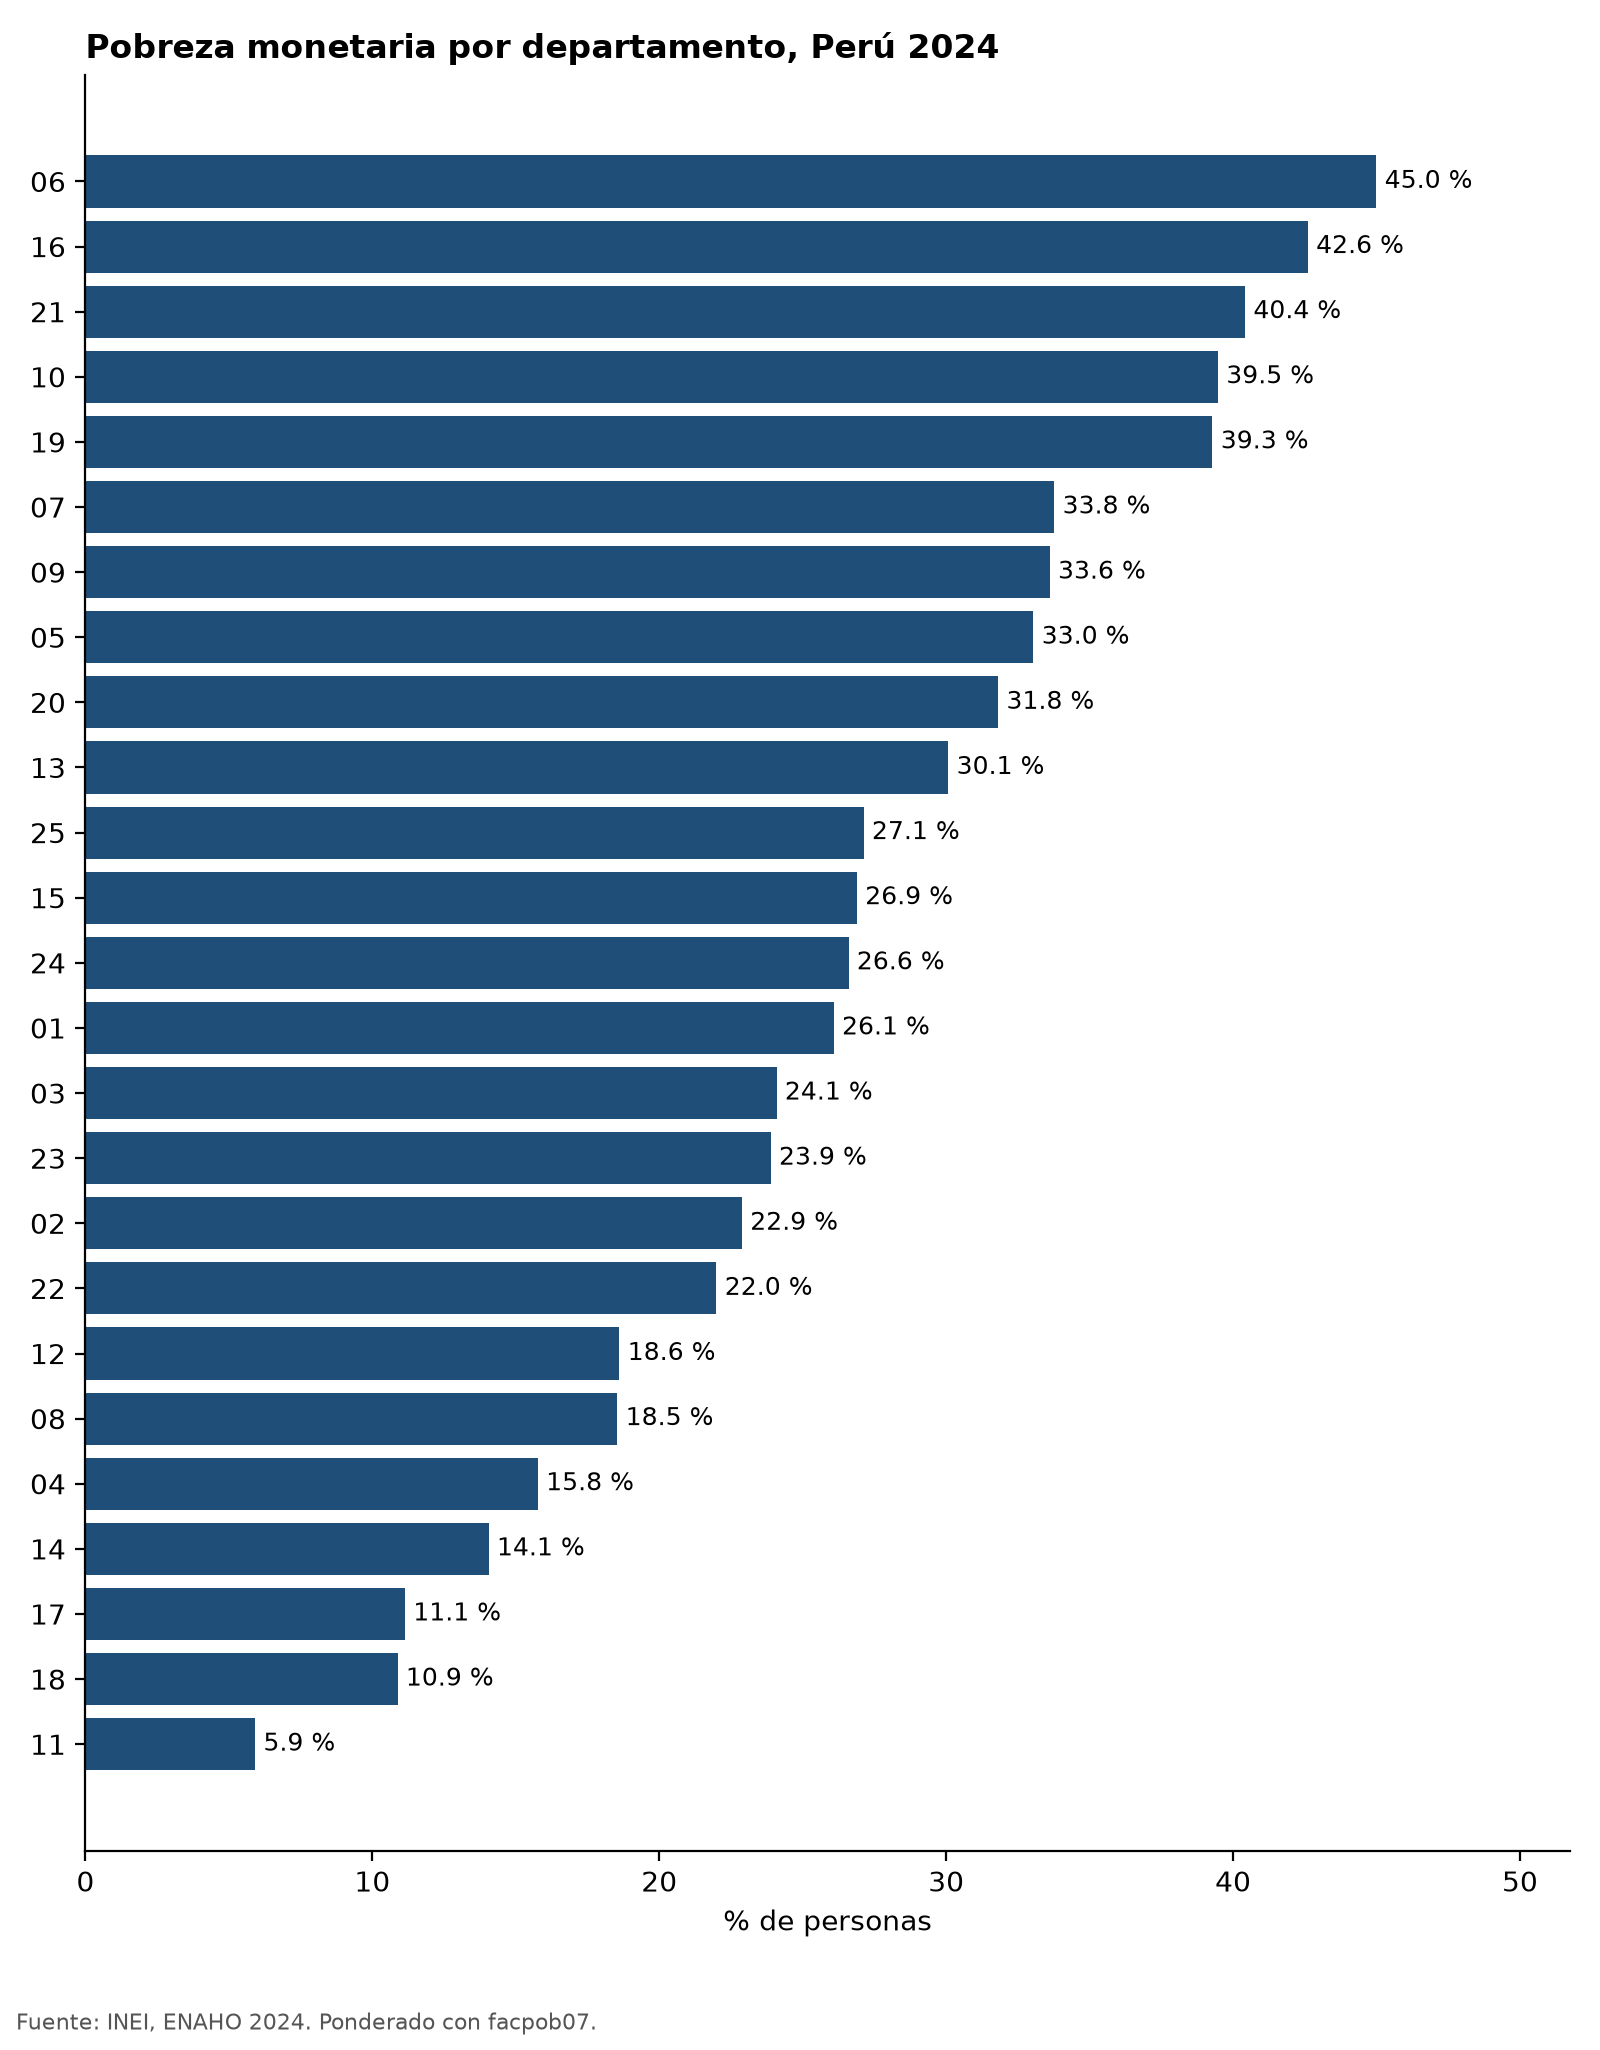
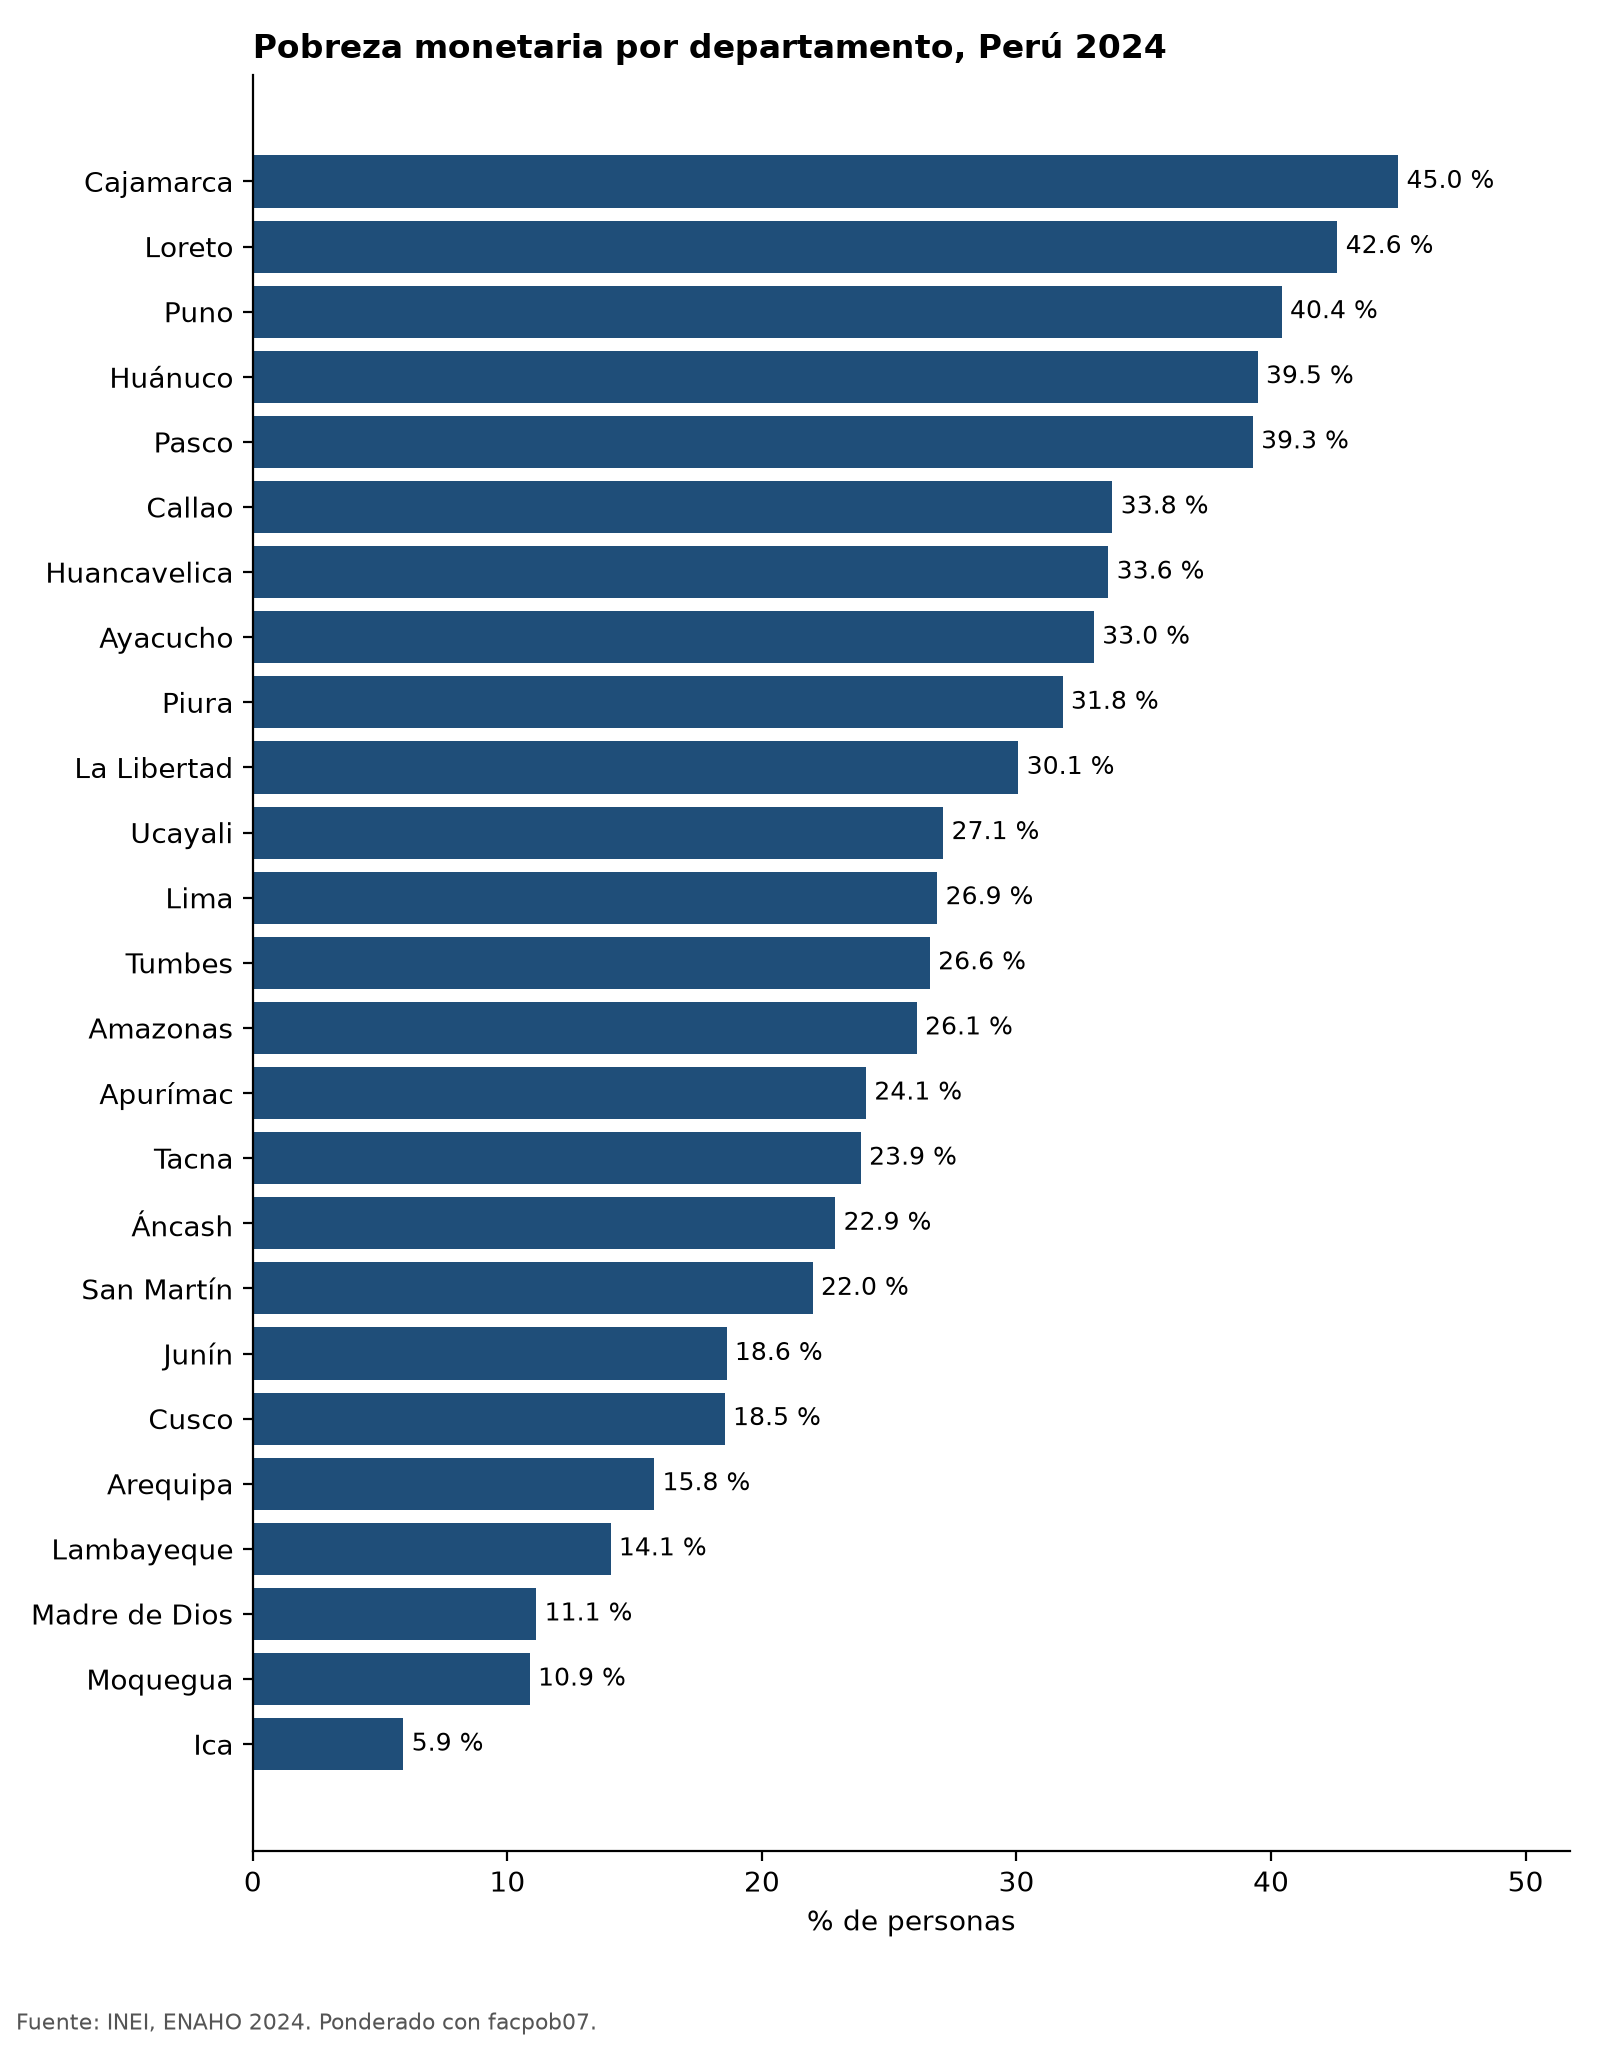
Mostrar nombres de departamento en vez de códigos en el gráfico
El gráfico por departamento mostraba los dos dígitos del ubigeo como
etiquetas. Se traduce cada código a su nombre y se regenera la figura.

diff --git a/.claude/skills/graficando-enaho/scripts/graficar.py b/.claude/skills/graficando-enaho/scripts/graficar.py
@@ -29,6 +29,14 @@ GRUPOS = {
 INDICADORES = {"pobre": "Pobreza monetaria", "pobre_extremo": "Pobreza extrema"}
 # Orden natural; los grupos que no aparecen aquí se ordenan de mayor a menor
 ORDEN_FIJO = {"grupo_edad": ["0-13", "14-17", "18-29", "30-44", "45-59", "60+"]}
+# Nombre de cada departamento según los dos primeros dígitos del ubigeo (INEI)
+DEPARTAMENTOS = {
+    "01": "Amazonas", "02": "Áncash", "03": "Apurímac", "04": "Arequipa", "05": "Ayacucho",
+    "06": "Cajamarca", "07": "Callao", "08": "Cusco", "09": "Huancavelica", "10": "Huánuco",
+    "11": "Ica", "12": "Junín", "13": "La Libertad", "14": "Lambayeque", "15": "Lima",
+    "16": "Loreto", "17": "Madre de Dios", "18": "Moquegua", "19": "Pasco", "20": "Piura",
+    "21": "Puno", "22": "San Martín", "23": "Tacna", "24": "Tumbes", "25": "Ucayali",
+}
 
 
 def main() -> None:
@@ -56,6 +64,8 @@ def main() -> None:
         tabla = tabla.reindex([g for g in ORDEN_FIJO[a.por] if g in tabla.index])
     else:
         tabla = tabla.sort_values("pct", ascending=False)
+    if a.por == "departamento":
+        tabla.index = tabla.index.map(DEPARTAMENTOS)
 
     titulo = f"{INDICADORES[a.indicador]} por {GRUPOS[a.por]}, Perú {a.anio}"
     if a.filtro:
